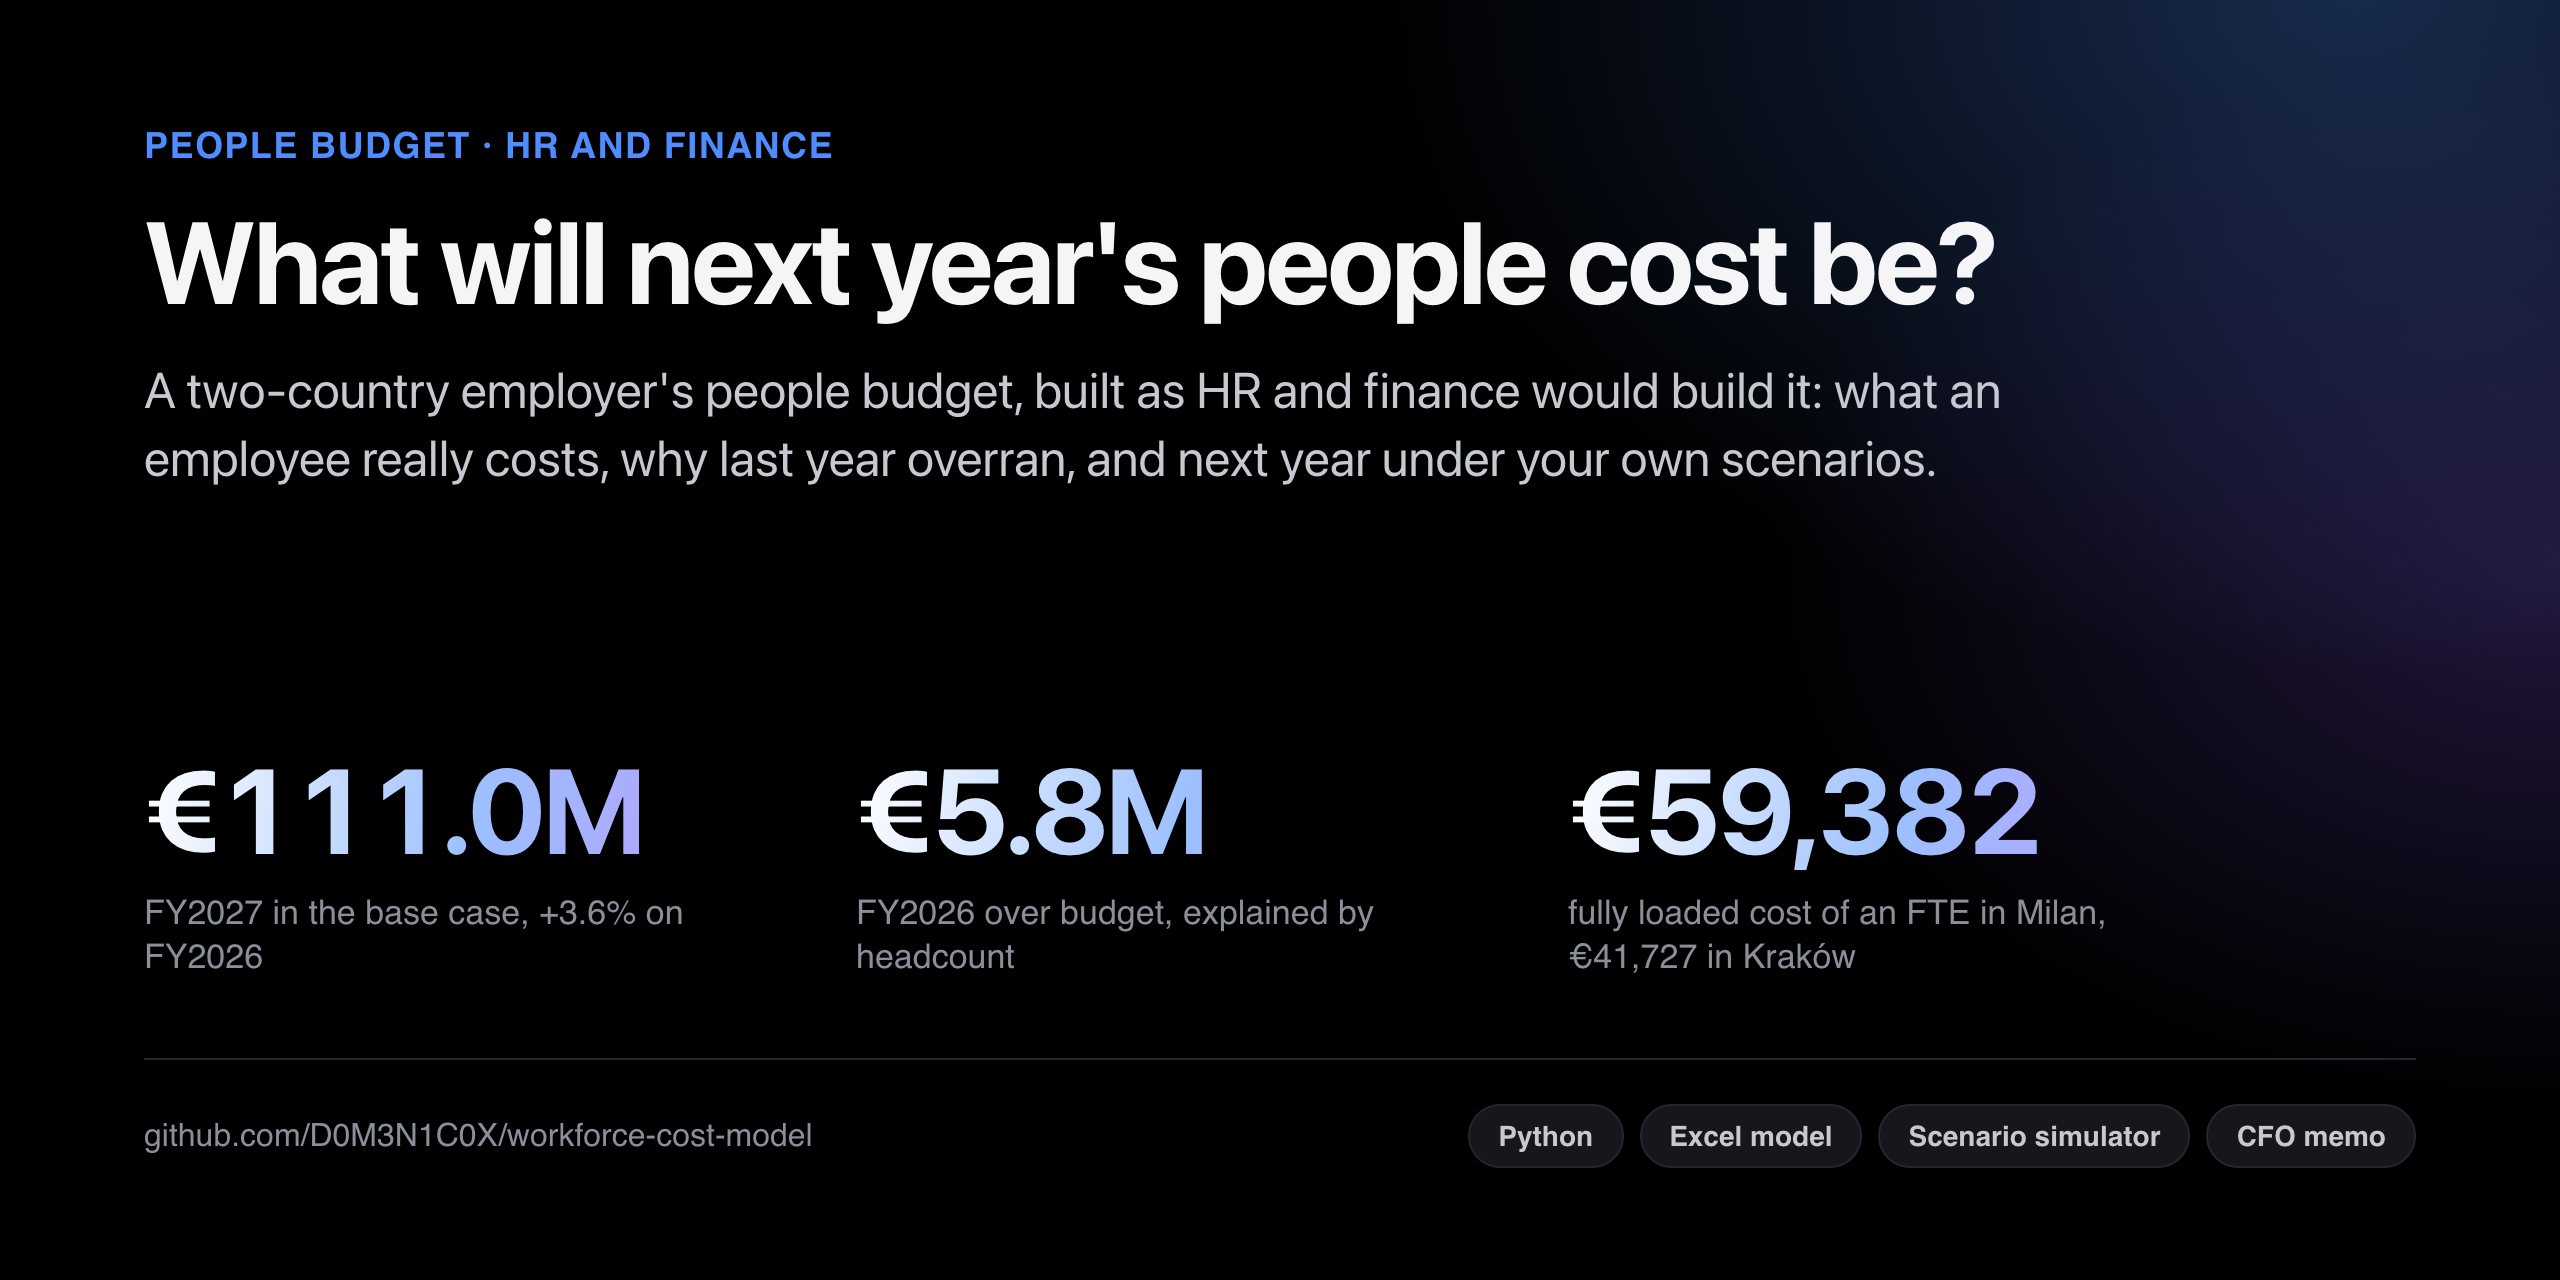
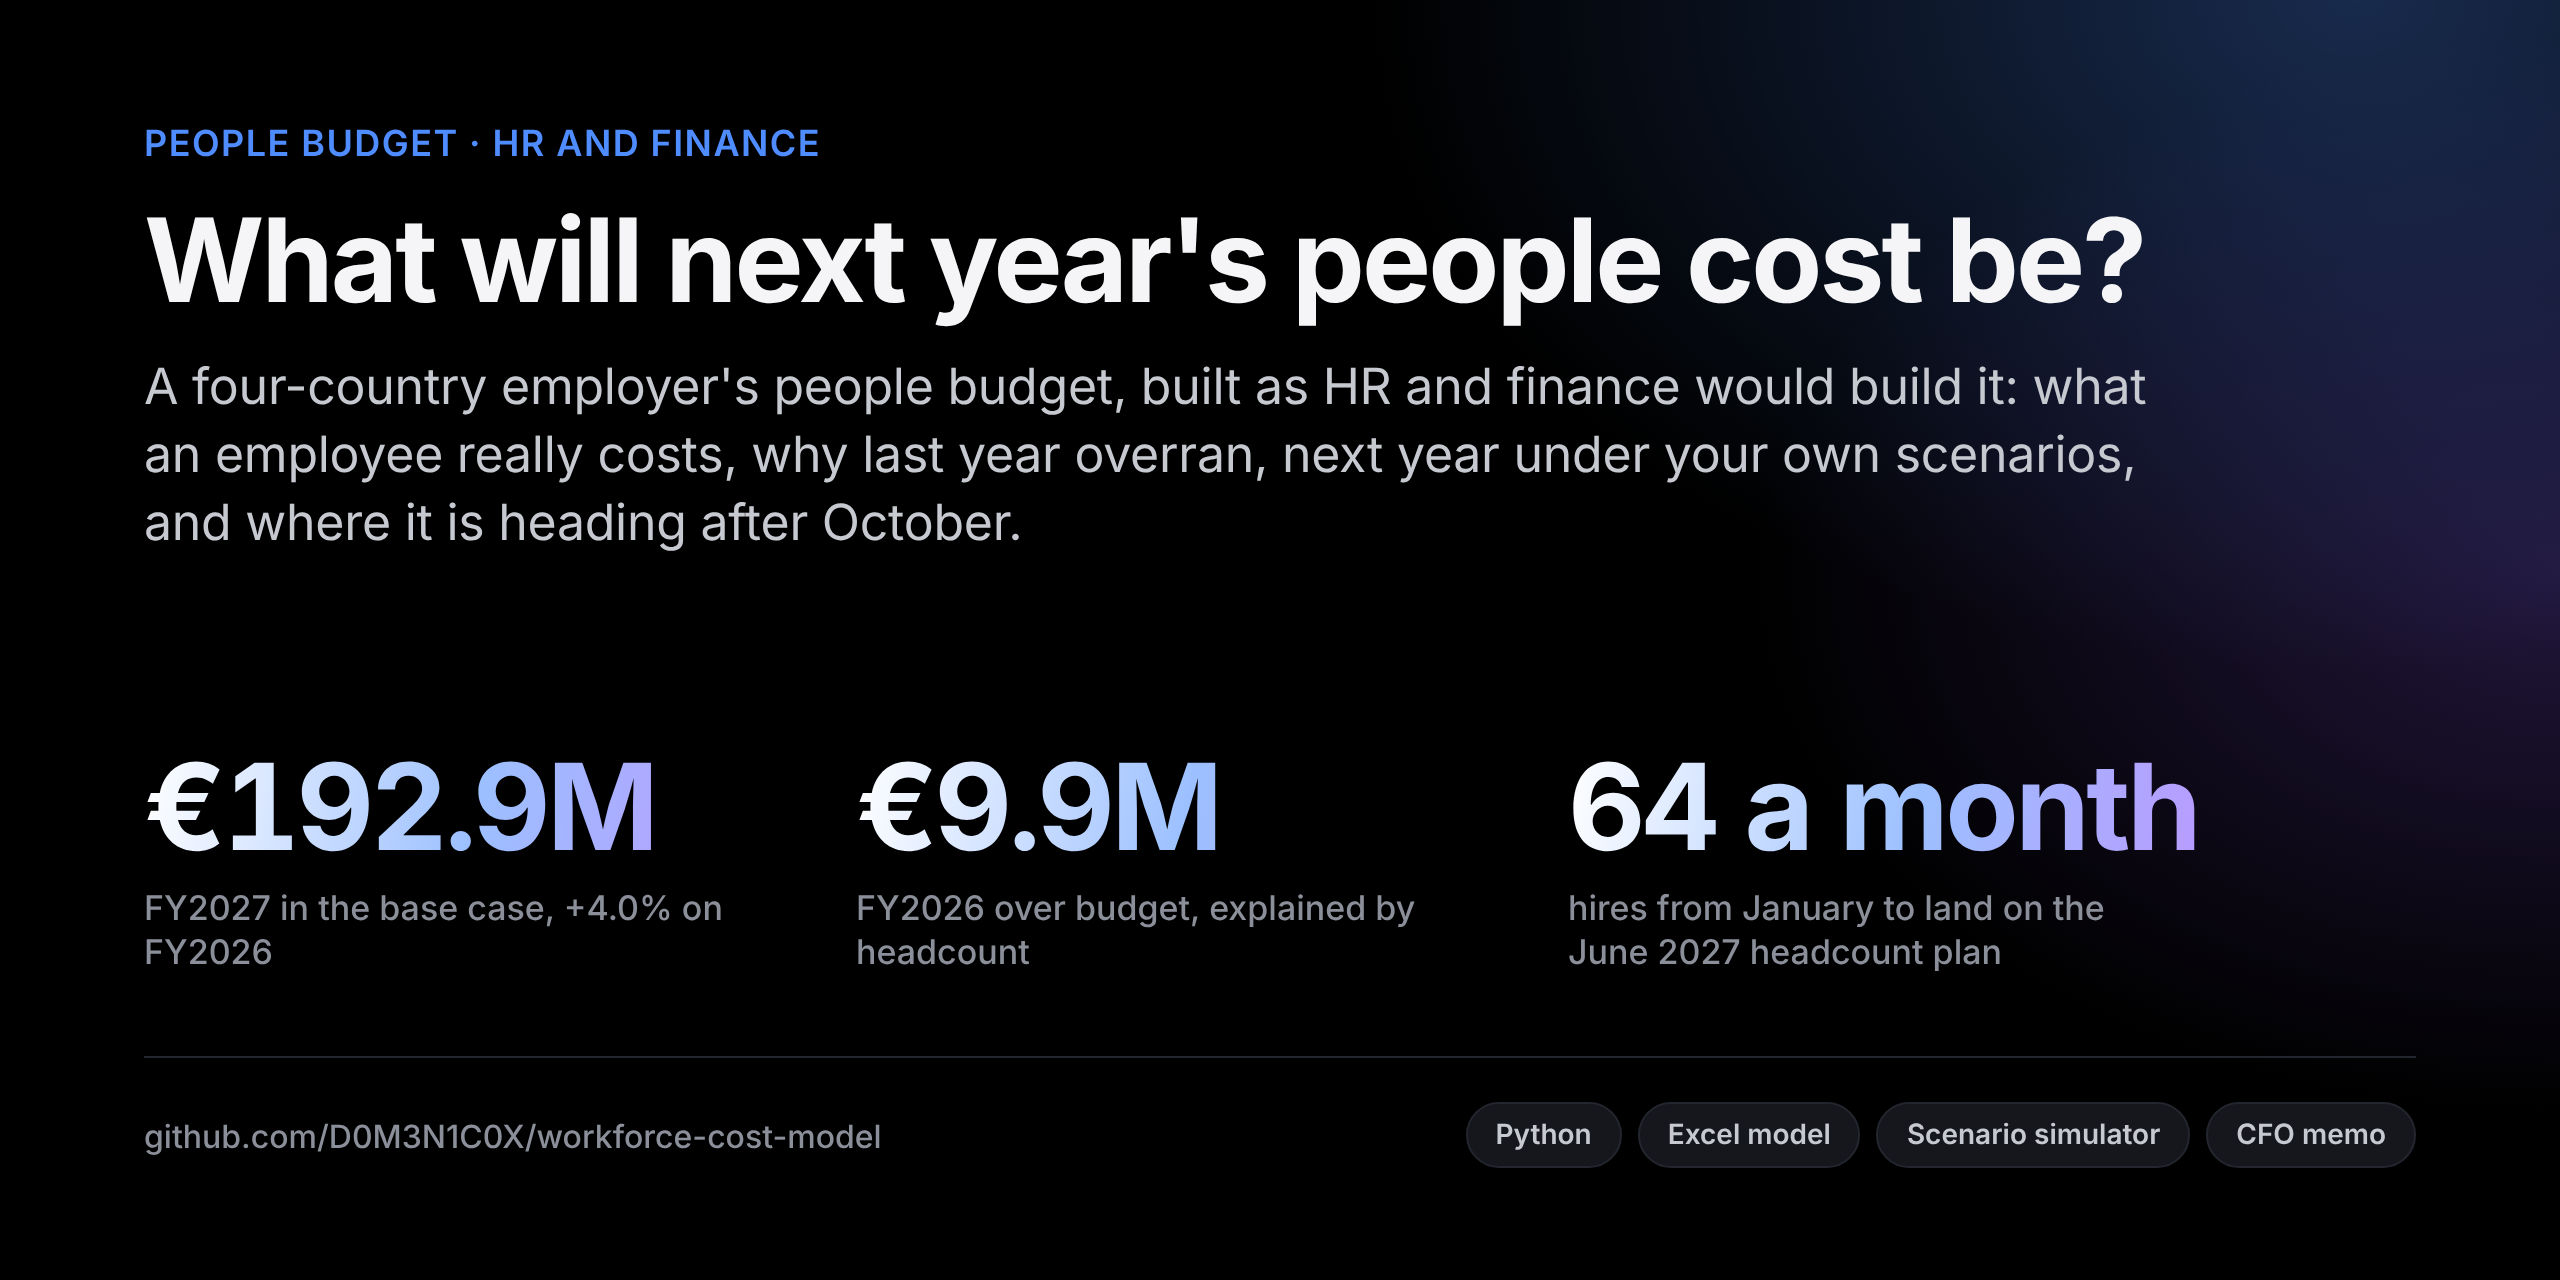
Covers and link previews for v2.1: four countries, outlook, plan
The cover images and the social card still showed the two-country v1
figures (€111.0M, €5.8M, €59,382). Now €192.9M, €9.9M and the 64 hires
a month the headcount plan takes; the page description names the five
scenarios, the outlook and the plan.

Claude-Session: https://claude.ai/code/session_014XHqeApKr46St4VSU6sEYL

diff --git a/site-assets/og-meta.html b/site-assets/og-meta.html
@@ -1,7 +1,7 @@
-<meta name="description" content="A driver-based people-cost model: FY2026 budget against actual and FY2027 under four scenarios, in live Excel formulas reconciled with pandas.">
+<meta name="description" content="A driver-based people-cost model for four countries: FY2026 budget against actual, FY2027 under five scenarios, the outlook after October and a headcount plan, in live Excel formulas reconciled with pandas.">
 <meta property="og:type" content="website">
 <meta property="og:title" content="FY2027 People Cost: Italy, Poland, Germany and Spain">
-<meta property="og:description" content="A driver-based people-cost model: FY2026 budget against actual and FY2027 under four scenarios, in live Excel formulas reconciled with pandas.">
+<meta property="og:description" content="A driver-based people-cost model for four countries: FY2026 budget against actual, FY2027 under five scenarios, the outlook after October and a headcount plan, in live Excel formulas reconciled with pandas.">
 <meta property="og:url" content="https://d0m3n1c0x.github.io/workforce-cost-model/">
 <meta property="og:image" content="https://d0m3n1c0x.github.io/workforce-cost-model/og.png">
 <meta property="og:image:width" content="1280">

diff --git a/README.md b/README.md
@@ -1,6 +1,6 @@
 <picture>
   <source media="(prefers-color-scheme: dark)" srcset="site-assets/cover-dark.png">
-  <img alt="What will next year's people cost be? €111.0M in FY2027's base case, €5.8M over budget in FY2026, €59,382 a fully loaded FTE in Milan." src="site-assets/cover-light.png">
+  <img alt="What will next year's people cost be? €192.9M in FY2027's base case, €9.9M over budget in FY2026, 64 hires a month from January to land on the June 2027 headcount plan." src="site-assets/cover-light.png">
 </picture>
 
 <p align="center">
